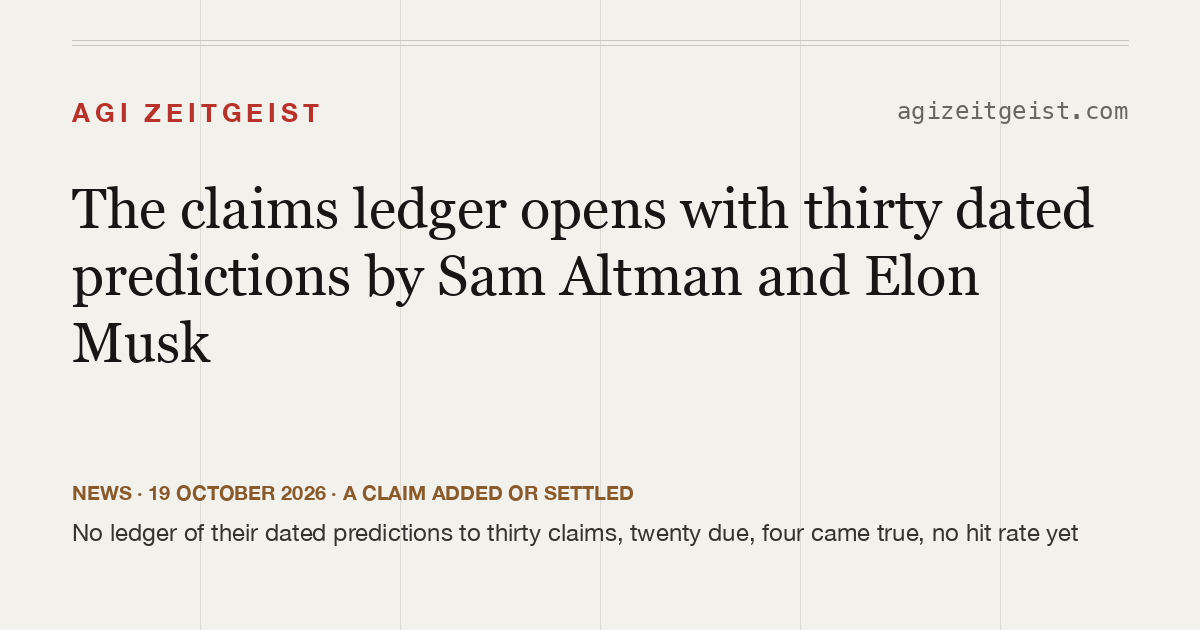
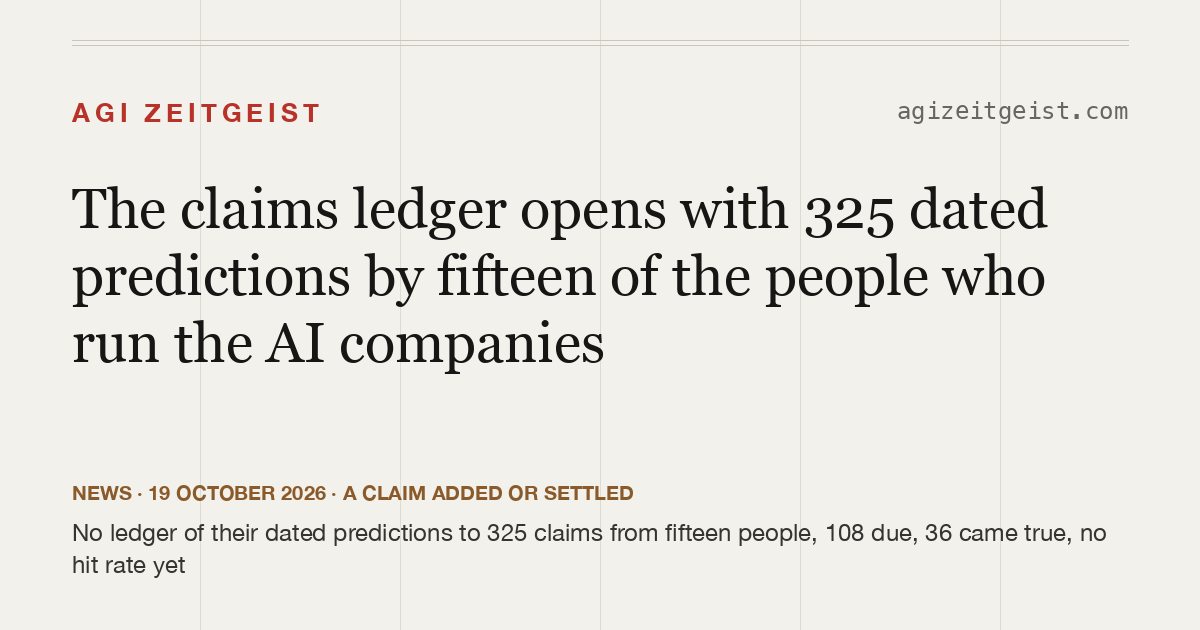
2026-10-19: the claims-ledger news post widened to all fifteen figureheads, on John's ruling of 2026-10-19 and his approval to update the live post once the independent check passed: 325 claims, 108 due, 36 came true, a table per person, every person and company linked at first mention, the 'What it

diff --git a/docs/news/2026-10-19-the-claims-ledger-opens.md b/docs/news/2026-10-19-the-claims-ledger-opens.md
@@ -1,15 +1,15 @@
 ---
-title: The claims ledger opens with thirty dated predictions by Sam Altman and Elon Musk
+title: The claims ledger opens with 325 dated predictions by fifteen of the people who run the AI companies
 date: 2026-10-19
 kind: claim
-summary: A new page records the dated predictions that the people who run the AI companies have made in public, each in their own words with its source and, once its date has passed, its verdict. It opens with thirty, sixteen by Sam Altman and fourteen by Elon Musk; twenty are due and four came true.
-records: [A27]
+summary: A new page records the dated predictions that the people who run the AI companies have made in public, each in their own words with its source and, once its date has passed, its verdict. It holds 325 from fifteen people; 108 are due and 36 came true.
+records: [A27, A30]
 before: "No ledger of their dated predictions"
-after: "thirty claims, twenty due, four came true, no hit rate yet"
+after: "325 claims from fifteen people, 108 due, 36 came true, no hit rate yet"
 sources:
   - label: The claims page
     url: https://agizeitgeist.com/claims/
-  - label: Amendment A27, the claims ledger
+  - label: Amendments A27 and A30, the claims ledger and who it covers
     url: https://agizeitgeist.com/docs/amendments
   - label: The ledger's method
     url: https://agizeitgeist.com/docs/claims-ledger-method
@@ -19,23 +19,39 @@ sources:
 
 ## What happened
 
-The tracker now keeps a [ledger of dated claims](/claims/): every public prediction with a date in it made by the people who run the companies building frontier AI, in their own words, with the recording or post it came from, the test it would have to pass, and a verdict once its date has passed. It opens with thirty, sixteen by [Sam Altman](https://en.wikipedia.org/wiki/Sam_Altman) of [OpenAI](https://openai.com/) and fourteen by [Elon Musk](https://en.wikipedia.org/wiki/Elon_Musk) of [Tesla](https://en.wikipedia.org/wiki/Tesla,_Inc.) and xAI. Every one was read again at its original source before it went in, and every search behind it is in [the search log](/data/search_log.csv). The rules were written down first and recorded as [amendment A27](/docs/amendments) ([the method](/docs/claims-ledger-method)).
+The tracker now keeps a [ledger of dated claims](/claims/): every public prediction with a date in it made by the people who run the companies building frontier AI, in their own words, with the recording or post it came from, the test it would have to pass, and a verdict once its date has passed. It holds 325 claims from fifteen people. Every one was read again at its original source before it went in, and every search behind it is in [the search log](/data/search_log.csv). The rules were written down first and recorded as [amendment A27](/docs/amendments) ([the method](/docs/claims-ledger-method)).
 
-## Where the thirty stand
+Who counts is set by [amendment A30](/docs/amendments): the chief executive, founder-leader or chair of a company that builds frontier AI models or the chips they are trained on, or its named chief scientist, and only for what they said while they held that role. The fifteen are [Sam Altman](https://en.wikipedia.org/wiki/Sam_Altman) of [OpenAI](https://openai.com/); [Elon Musk](https://en.wikipedia.org/wiki/Elon_Musk) of [Tesla](https://en.wikipedia.org/wiki/Tesla,_Inc.) and [xAI](https://x.ai/), now called SpaceXSI; [Dario Amodei](https://en.wikipedia.org/wiki/Dario_Amodei) of [Anthropic](https://www.anthropic.com/); [Jensen Huang](https://en.wikipedia.org/wiki/Jensen_Huang) of [Nvidia](https://www.nvidia.com/); [Demis Hassabis](https://en.wikipedia.org/wiki/Demis_Hassabis) and [Shane Legg](https://en.wikipedia.org/wiki/Shane_Legg) of [Google DeepMind](https://deepmind.google/); [Mustafa Suleyman](https://en.wikipedia.org/wiki/Mustafa_Suleyman), who co-founded DeepMind and now runs [Microsoft AI](https://microsoft.ai/); [Ilya Sutskever](https://en.wikipedia.org/wiki/Ilya_Sutskever), formerly OpenAI's chief scientist and now head of [Safe Superintelligence](https://ssi.inc/); [Yann LeCun](https://en.wikipedia.org/wiki/Yann_LeCun), chief AI scientist at [Meta](https://www.meta.com/about/) until the end of 2025; [Liang Wenfeng](https://en.wikipedia.org/wiki/Liang_Wenfeng) of [DeepSeek](https://www.deepseek.com/); [Arthur Mensch](https://en.wikipedia.org/wiki/Arthur_Mensch) of [Mistral AI](https://mistral.ai/); [Kai-Fu Lee](https://en.wikipedia.org/wiki/Kai-Fu_Lee) of [01.AI](https://www.01.ai/), counted from 2023, when he founded it; [Mark Zuckerberg](https://en.wikipedia.org/wiki/Mark_Zuckerberg) of Meta; [Sundar Pichai](https://en.wikipedia.org/wiki/Sundar_Pichai) of [Google](https://about.google/) and its parent Alphabet; and [Satya Nadella](https://en.wikipedia.org/wiki/Satya_Nadella) of [Microsoft](https://www.microsoft.com/). The last three are in the ledger only: they are not among the 37 people whose views the tracker's opinion record follows, and their words never enter it ([amendment A30](/docs/amendments)).
 
-| | Sam Altman | Elon Musk |
-|---|---|---|
-| Claims | 16 | 14 |
-| Due | 9 | 11 |
-| Came true | 2 | 2 |
-| Did not | 1 | 9 |
-| Not yet due | 7 | 3 |
-| Cannot be tested | 6 | 0 |
+## Where they stand
 
-The counts are [on the page](/claims/) and in [the table](/data/claims.csv). Four of the thirty show how the verdicts work. Musk said in 2019 there would be ["over a million Robo taxis on the road"](/claims/#2019-04-22-musk-million-robotaxis-next-year) the next year: it did not come true. Altman said in March 2024 that OpenAI would ["release an amazing new model this year"](/claims/#2024-03-18-altman-amazing-new-model-this-year): it did. Musk said in April 2024 that AI smarter than the smartest human would come ["probably end of next year"](/claims/#2024-04-08-musk-agi-smarter-than-smartest-human), or within two years; he gave a later date in January 2026, and under the ledger's rules the first claim keeps its own deadline, so it is not yet due until the end of 2026. Altman wrote in 2024 of ["superintelligence in a few thousand days"](/claims/#2024-09-23-altman-superintelligence-few-thousand-days); he never says in that essay what superintelligence is, so there is nothing an outsider could check, and the ledger marks it as a claim that cannot be tested.
+| | Claims | Due | Came true | Did not | Not yet due | Cannot be tested |
+|---|---|---|---|---|---|---|
+| Mustafa Suleyman | 56 | 10 | 4 | 5 | 39 | 8 |
+| Dario Amodei | 49 | 8 | 2 | 5 | 33 | 9 |
+| Demis Hassabis | 36 | 8 | 3 | 5 | 16 | 12 |
+| Kai-Fu Lee | 34 | 5 | 1 | 1 | 14 | 18 |
+| Sundar Pichai | 26 | 21 | 9 | 10 | 3 | 4 |
+| Yann LeCun | 24 | 2 | 2 | 0 | 11 | 11 |
+| Jensen Huang | 23 | 16 | 4 | 11 | 4 | 4 |
+| Mark Zuckerberg | 19 | 10 | 2 | 7 | 6 | 4 |
+| Sam Altman | 16 | 6 | 2 | 1 | 7 | 6 |
+| Elon Musk | 14 | 11 | 2 | 9 | 3 | 0 |
+| Shane Legg | 11 | 4 | 1 | 1 | 3 | 6 |
+| Satya Nadella | 7 | 6 | 4 | 0 | 1 | 2 |
+| Ilya Sutskever | 5 | 1 | 0 | 0 | 3 | 2 |
+| Arthur Mensch | 4 | 0 | 0 | 0 | 2 | 2 |
+| Liang Wenfeng | 1 | 0 | 0 | 0 | 0 | 1 |
+| All fifteen | 325 | 108 | 36 | 55 | 145 | 89 |
+
+The counts are [on the page](/claims/) and in [the table](/data/claims.csv). A claim is due once its date has passed. That includes claims that cannot be tested, which is why a person's due count can be larger than their came-true and did-not counts together: 17 of the 108 due claims are past their date but could never be checked ([the method](/docs/claims-ledger-method)).
+
+Four of the claims show how the verdicts work. Musk said in 2019 there would be ["over a million Robo taxis on the road"](/claims/#2019-04-22-musk-million-robotaxis-next-year) the next year: it did not come true. Altman said in March 2024 that OpenAI would ["release an amazing new model this year"](/claims/#2024-03-18-altman-amazing-new-model-this-year): it did. Musk said in April 2024 that AI smarter than the smartest human would come ["probably end of next year"](/claims/#2024-04-08-musk-agi-smarter-than-smartest-human), or within two years; he gave a later date in January 2026, and under the ledger's rules the first claim keeps its own deadline, so it is not yet due until the end of 2026. Altman wrote in 2024 of ["superintelligence in a few thousand days"](/claims/#2024-09-23-altman-superintelligence-few-thousand-days); he never says in that essay what superintelligence is, so there is nothing an outsider could check, and the ledger marks it as a claim that cannot be tested.
 
 ## What it does not mean
 
-There is no hit rate on the page yet, and the counts above are not one. A rate needs every dated claim a person has made, found by a year-by-year search, and so far only the claims gathered for the opening are in; the ledger's rule is to print a rate only after that search and only once five of a person's claims are due ([the method](/docs/claims-ledger-method)). A prediction that did not come true says nothing about whether it was a reasonable one, and the four that came true are not a measure of foresight on their own. The ledger records what was said and what happened; it does not score the [singularity test](/docs/singularity-entry-definition) and it does not move the number at the top of the home page.
+There is no hit rate on the page yet, and the counts above are not one. A rate needs every dated claim a person has made, found by a year-by-year search, and so far only the claims gathered for the opening are in; the ledger's rule is to print a rate only after that search and only once five of a person's claims are due ([the method](/docs/claims-ledger-method)). A prediction that did not come true says nothing about whether it was a reasonable one, and the 36 that came true are not a measure of foresight on their own ([the claims page](/claims/)). Some people simply make more dated predictions than others, so the number of claims beside a name says how often they put a date on the future, not how right they are. The ledger records what was said and what happened; it does not score the [singularity test](/docs/singularity-entry-definition) and it does not move the number at the top of the home page.
 
-*Corrected 2026-10-19 after an independent check.* Altman's goal of "an automated AI research intern by September of 2026" was first entered as came true, on OpenAI's own word. A check that day found that OpenAI defined the intern only when it announced success, judged it by its own measurements, and never showed the stated "hundreds of thousands of GPUs", so the claim [cannot be tested](/claims/#2025-10-29-altman-automated-research-intern-by-september-2026). The counts above were changed from five came true to four, and Altman's from three to two.
+*Corrected 2026-10-19 after an independent check.* Altman's goal of "an automated AI research intern by September of 2026" was first entered as came true, on OpenAI's own word. A check that day found that OpenAI defined the intern only when it announced success, judged it by its own measurements, and never showed the stated "hundreds of thousands of GPUs", so the claim [cannot be tested](/claims/#2025-10-29-altman-automated-research-intern-by-september-2026). The counts were changed from five came true to four, and Altman's from three to two.
+
+*Widened 2026-10-19 on John's ruling.* This post first covered the thirty claims by Altman and Musk that the ledger opened with. The same day John ruled that it should cover the industry's figureheads, fifteen people in all ([amendment A30](/docs/amendments)), and the post was rewritten to cover them once a separate check of every new claim against its source had passed. That check led to corrections, all made before the new claims went up. The same change settled when a claim that cannot be tested counts as due: from its own date, not from the day it was entered. Under that rule the original thirty now read 17 due rather than the 20 this post first gave, and Altman's 6 rather than 9; their verdicts did not change, and four of them came true ([the claims page](/claims/)).
